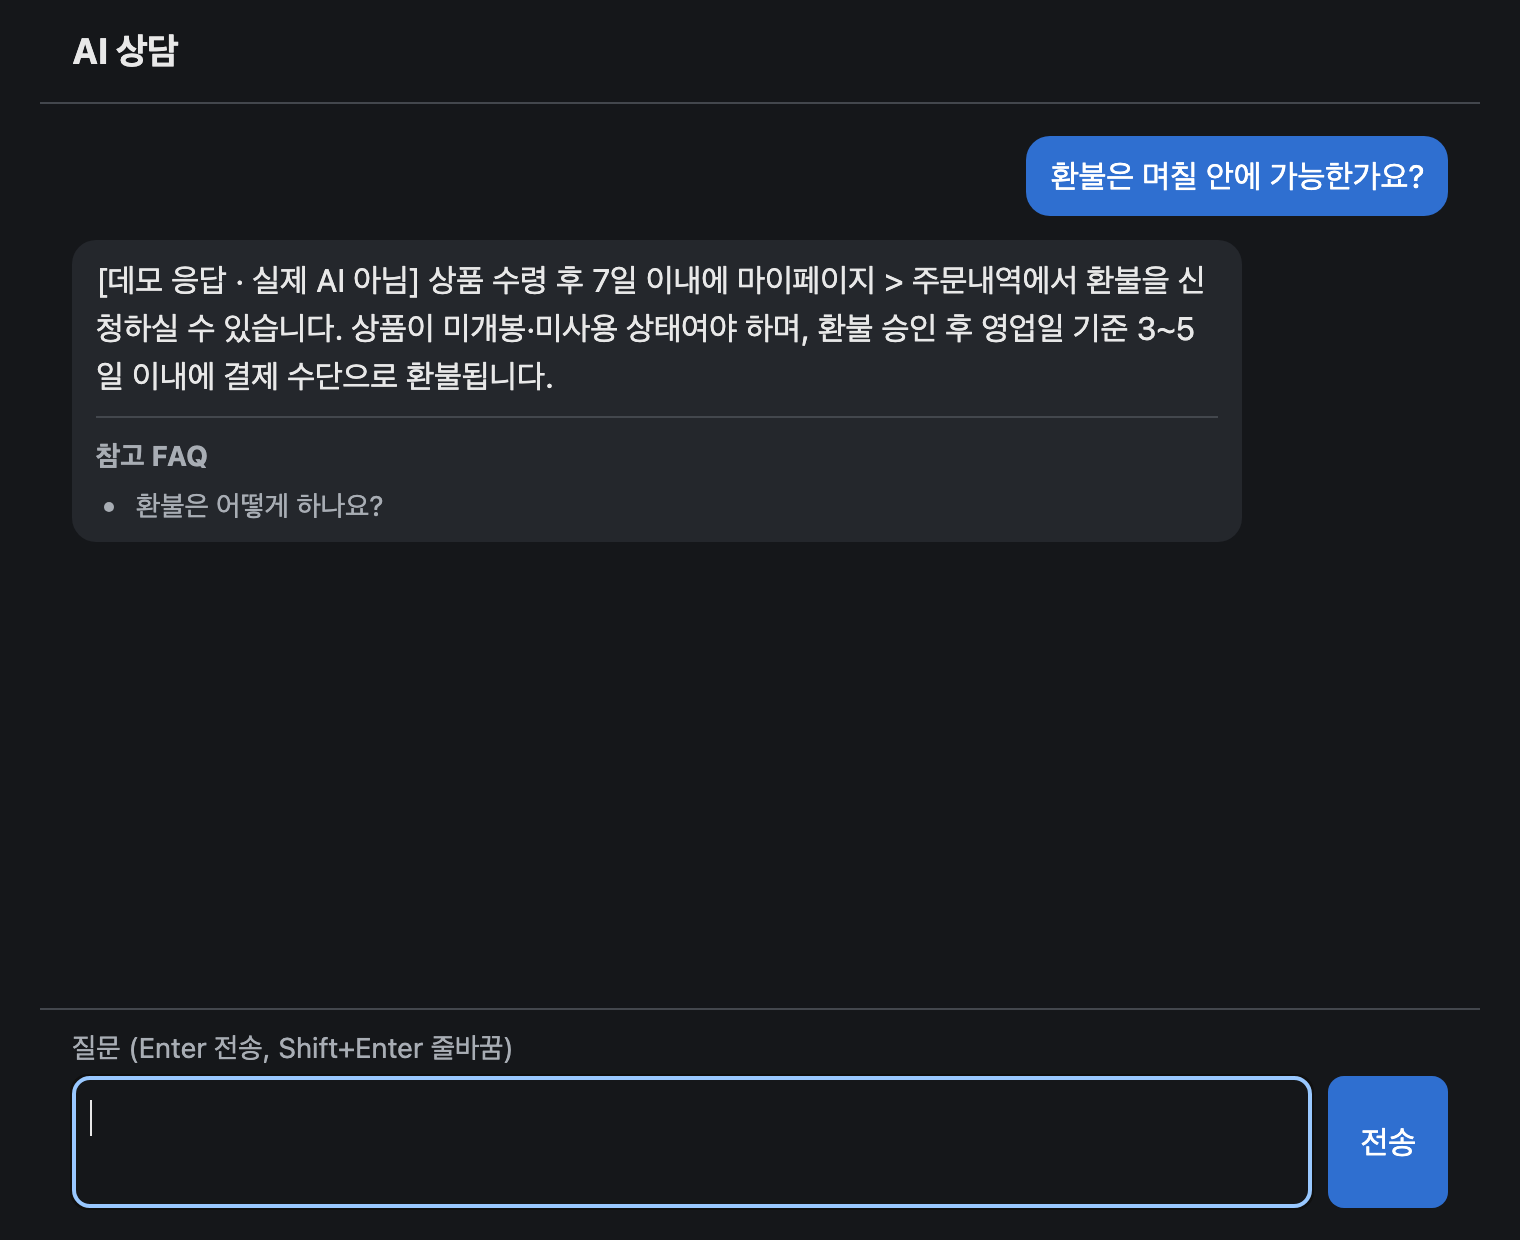
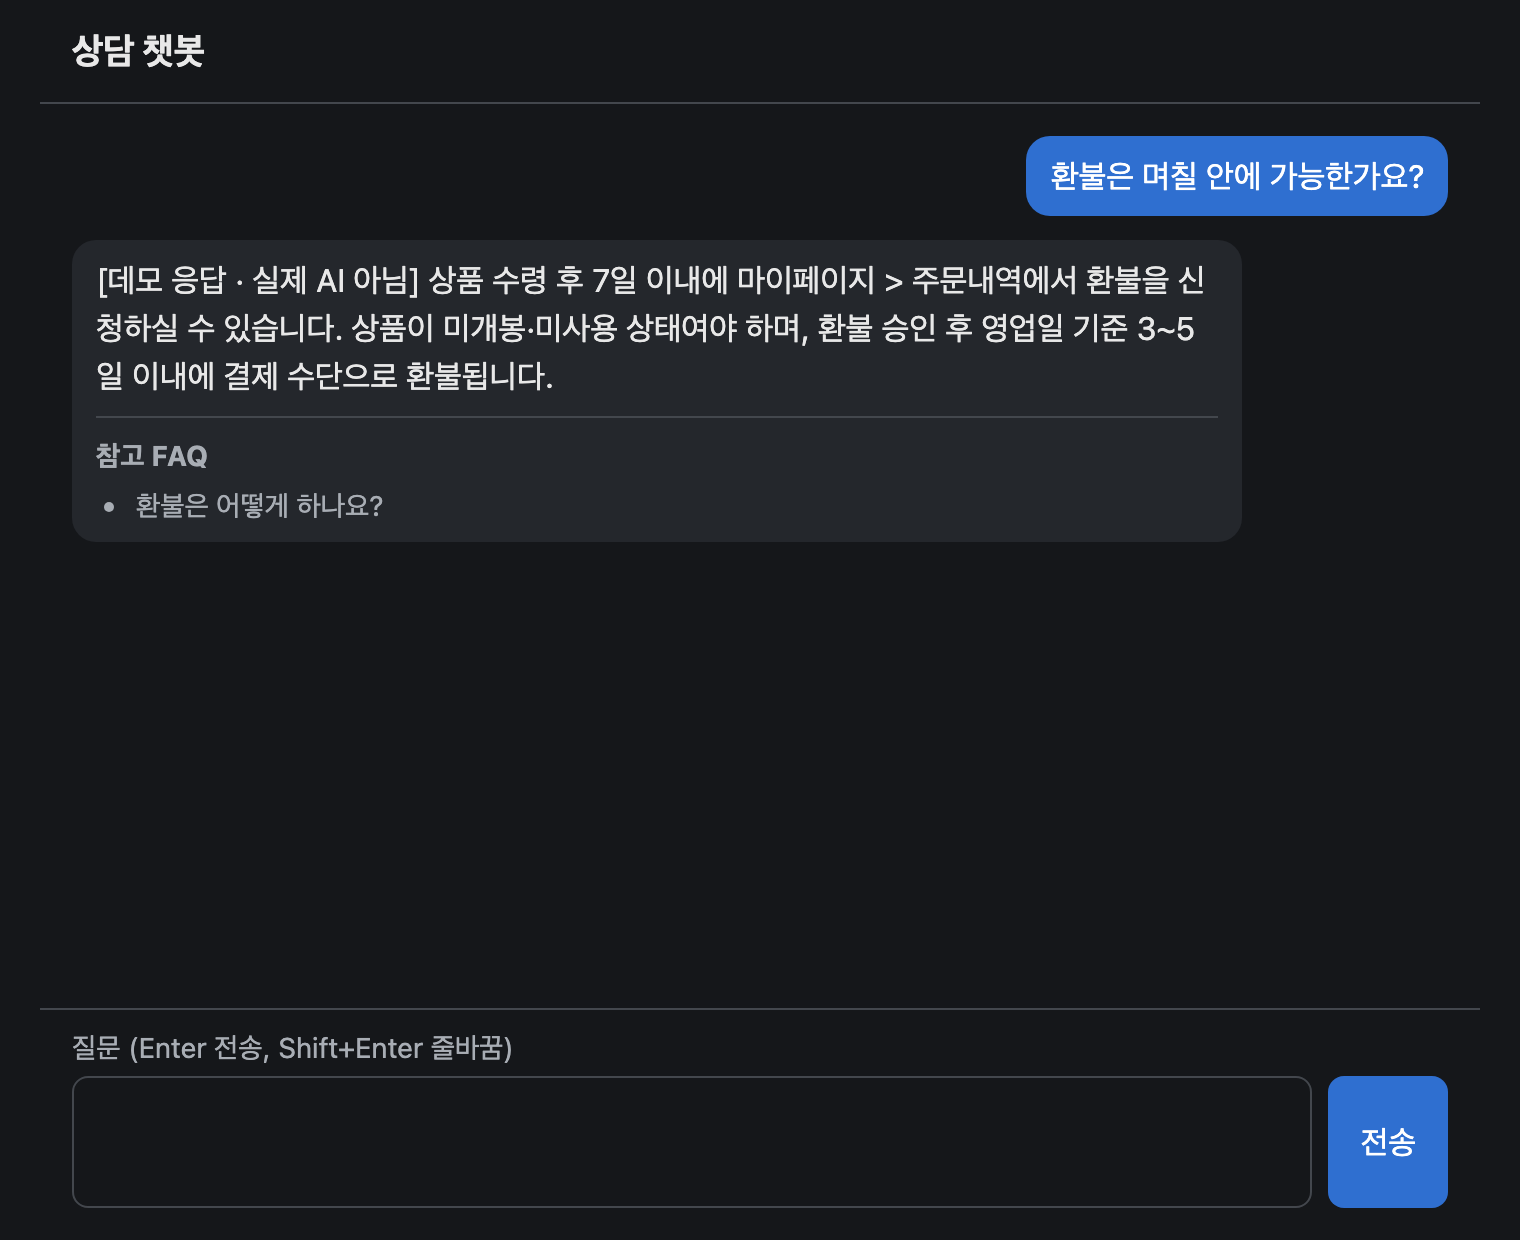
fix: keep demo follow-ups on the current question and tighten retrieval
The rewrite stub returned the whole prompt, so the previous FAQ answer in
the history dominated every later search. It now returns only the current
question.

Demo embedding uses bigrams within words and drops question endings, with
the threshold at 0.18 and a new embedding index name so stored vectors are
rebuilt. Page heading no longer says "AI" in demo mode; screenshot retaken.

diff --git a/src/main/resources/static/index.html b/src/main/resources/static/index.html
@@ -3,7 +3,7 @@
 <head>
 <meta charset="utf-8">
 <meta name="viewport" content="width=device-width, initial-scale=1">
-<title>AI 상담</title>
+<title>상담 챗봇</title>
 <link rel="icon" href="data:,">
 <style>
   :root {
@@ -55,7 +55,7 @@
 </style>
 </head>
 <body>
-<h1>AI 상담</h1>
+<h1>상담 챗봇</h1>
 <div id="log" role="log" aria-live="polite" aria-label="대화 내용" tabindex="0"></div>
 <p id="error" role="alert" hidden></p>
 <form id="form">

diff --git a/src/test/java/com/example/consult/demo/DemoEmbeddingModelTest.java b/src/test/java/com/example/consult/demo/DemoEmbeddingModelTest.java
@@ -33,7 +33,38 @@ class DemoEmbeddingModelTest {
             "파이썬으로 정렬 알고리즘 짜는 법 알려줘",
             "김치찌개 맛있게 끓이는 법이 궁금해요",
             "임진왜란은 몇 년에 일어났나요?",
-            "강아지가 밥을 안 먹어요");
+            "강아지가 밥을 안 먹어요",
+            "안녕하세요",
+            "너는 누구야?",
+            "넌 AI야?",
+            "상담원 연결해 주세요",
+            "영업시간이 어떻게 되나요?",
+            "화성까지 가는 데 얼마나 걸리나요?",
+            "라면은 어떻게 끓이나요?",
+            "이혼은 어떻게 하나요?",
+            "자동차 할부는 얼마인가요?",
+            "서울에서 부산까지 얼마나 걸리나요?",
+            "운전면허는 어떻게 따나요?",
+            "사장님 이름이 뭐예요?",
+            "주식 투자는 어떻게 하나요?",
+            "회사 위치가 어디인가요?",
+            "다이어트는 어떻게 하나요?",
+            "비트코인 얼마인가요?",
+            "제주도 여행은 어떻게 가나요?",
+            "점심 메뉴 추천해 주세요",
+            "오늘 몇 시인가요?",
+            "노래 추천해 줘",
+            "영어 공부는 어떻게 하나요?",
+            "회사 전화번호가 뭐예요?",
+            "아파트 가격은 얼마인가요?",
+            "고마워요");
+
+    // 알려진 오답. 키워드 유사도의 한계라 임계값을 넘어 엉뚱한 FAQ로 답한다. 고치면 README도 함께 고친다.
+    private static final List<String> KNOWN_LEAKS = List.of(
+            "감사합니다",
+            "커피는 얼마나 마셔야 하나요?",
+            "지구에서 달까지 얼마나 걸리나요?",
+            "그 기간이 지나면 어떻게 되나요?");
 
     private static List<FaqEntry> faqs;
     private static double threshold;
@@ -60,8 +91,14 @@ class DemoEmbeddingModelTest {
     }
 
     @Test
-    void whitespaceIsIgnored() {
-        assertThat(model.embed("환불 은 어떻게\n하나요")).isEqualTo(model.embed("환불은어떻게하나요"));
+    void bigramsStayWithinWords() {
+        assertThat(model.embed("환 불")).containsOnly(0f);
+        assertThat(model.embed("환불, 교환\n")).isEqualTo(model.embed("환불 교환"));
+    }
+
+    @Test
+    void questionEndingsAreDropped() {
+        assertThat(model.embed("환불 어떻게 하나요")).isEqualTo(model.embed("환불"));
     }
 
     @Test
@@ -84,6 +121,14 @@ class DemoEmbeddingModelTest {
         for (String question : UNRELATED) {
             float[] q = model.embed(question);
             assertThat(faqs).as(question).allSatisfy(f -> assertThat(score(q, f)).isLessThan(threshold));
+        }
+    }
+
+    @Test
+    void knownLeaksStillPassThreshold() {
+        for (String question : KNOWN_LEAKS) {
+            float[] q = model.embed(question);
+            assertThat(faqs).as(question).anySatisfy(f -> assertThat(score(q, f)).isGreaterThanOrEqualTo(threshold));
         }
     }
 

diff --git a/src/test/java/com/example/consult/DemoModeIT.java b/src/test/java/com/example/consult/DemoModeIT.java
@@ -45,6 +45,8 @@ import tools.jackson.databind.json.JsonMapper;
 class DemoModeIT {
 
     private static final String PREFIX = "[데모 응답 · 실제 AI 아님] ";
+    private static final String NO_MATCH = "등록된 FAQ에서 관련 내용을 찾지 못했습니다. 상담원 연결을 이용해 주세요.";
+    private static final String PASSWORD_ANSWER = "로그인 화면의 '비밀번호 찾기'에서 가입한 이메일을 입력하시면 재설정 링크를 보내드립니다. 링크는 30분간 유효합니다.";
     private static final JsonMapper JSON = JsonMapper.builder().build();
     private static final AtomicInteger EXTERNAL_REQUESTS = new AtomicInteger();
     private static HttpServer stub;
@@ -77,7 +79,7 @@ class DemoModeIT {
 
     @Test
     void contextHasOnlyDemoModelsAndNoKeys() {
-        assertThat(props.embeddingIndex()).isEqualTo("demo-char-bigram");
+        assertThat(props.embeddingIndex()).isEqualTo("demo-word-bigram");
         assertThat(((ConfigurableEnvironment) ctx.getEnvironment()).getPropertySources().stream())
                 .noneMatch(source -> source.getName().contains("application.properties"));
         assertThat(ctx.getBeansOfType(AnthropicChatModel.class)).isEmpty();
@@ -120,16 +122,34 @@ class DemoModeIT {
     }
 
     @Test
-    void followUpUsesHistoryAndEndsWithDone(CapturedOutput output) throws Exception {
+    void followUpOnNewTopicAnswersFromThatTopic(CapturedOutput output) throws Exception {
         UUID id = UUID.randomUUID();
         assertThat(chat(id, "환불은 며칠 안에 가능한가요?")).contains("event:done");
 
-        String sse = chat(id, "그 기간이 지나면 어떻게 되나요?");
+        String sse = chat(id, "비밀번호를 잊어버렸어요");
 
-        assertThat(sse).contains("\"id\":\"refund-policy\"");
+        assertThat(deltaText(sse)).isEqualTo(PREFIX + PASSWORD_ANSWER);
         assertThat(eventNames(sse).getLast()).isEqualTo("event:done");
         assertThat(output).doesNotContain("query rewrite failed");
         assertThat(EXTERNAL_REQUESTS).hasValue(0);
+    }
+
+    @Test
+    void offTopicFollowUpGetsNoMatchGuidance() throws Exception {
+        UUID id = UUID.randomUUID();
+        assertThat(chat(id, "환불은 며칠 안에 가능한가요?")).contains("event:done");
+
+        String sse = chat(id, "오늘 서울 날씨 어때요?");
+
+        assertThat(sse).contains("{\"items\":[]}");
+        assertThat(deltaText(sse)).isEqualTo(PREFIX + NO_MATCH);
+    }
+
+    @Test
+    void answerArrivesInMoreThanOneDelta() throws Exception {
+        String sse = chat(UUID.randomUUID(), "환불은 며칠 안에 가능한가요?");
+
+        assertThat(eventNames(sse).stream().filter("event:delta"::equals).count()).isGreaterThan(1);
     }
 
     private String chat(UUID id, String message) throws Exception {

diff --git a/src/main/java/com/example/consult/demo/DemoChatModel.java b/src/main/java/com/example/consult/demo/DemoChatModel.java
@@ -26,6 +26,7 @@ class DemoChatModel implements ChatModel {
     private static final String NO_FAQ_MARKER = "FAQ 근거 없음";
     private static final String GUIDANCE = "등록된 FAQ에서 관련 내용을 찾지 못했습니다. 상담원 연결을 이용해 주세요.";
     private static final Pattern FIRST_ANSWER = Pattern.compile("^A: (.*)$", Pattern.MULTILINE);
+    private static final Pattern FOLLOW_UP = Pattern.compile("Follow-up query:\\n(.*)\\n\\nStandalone query:", Pattern.DOTALL);
     private static final Pattern CHUNK = Pattern.compile(".{1,3}", Pattern.DOTALL);
     private static final Duration CHUNK_DELAY = Duration.ofMillis(30);
 
@@ -33,11 +34,13 @@ class DemoChatModel implements ChatModel {
         log.info("Demo mode on: answers are FAQ text from a stub, not AI. No external AI API is called.");
     }
 
-    // 후속 질문 재작성 전용. 재작성 없이 프롬프트를 그대로 돌려주므로 대화 이력 전체가 검색어가 되고,
-    // 대화가 길어지면 앞선 주제에 끌려 검색 결과가 틀릴 수 있다. 실제 모델에서는 생기지 않는 한계다.
+    // 재작성 전용. 스텁은 문맥을 모르니 현재 질문만 돌려준다. 이력까지 넘기면 직전 답변의 FAQ 원문이 검색을 지배한다.
     @Override
     public ChatResponse call(Prompt prompt) {
-        return new ChatResponse(List.of(new Generation(new AssistantMessage(prompt.getUserMessage().getText()))));
+        String text = prompt.getUserMessage().getText();
+        var followUp = FOLLOW_UP.matcher(text);
+        String query = followUp.find() ? followUp.group(1) : text;
+        return new ChatResponse(List.of(new Generation(new AssistantMessage(query))));
     }
 
     @Override

diff --git a/src/main/java/com/example/consult/demo/DemoEmbeddingModel.java b/src/main/java/com/example/consult/demo/DemoEmbeddingModel.java
@@ -3,6 +3,8 @@ package com.example.consult.demo;
 import java.nio.charset.StandardCharsets;
 import java.util.ArrayList;
 import java.util.List;
+import java.util.Set;
+import java.util.regex.Pattern;
 import java.util.zip.CRC32;
 import org.springframework.ai.document.Document;
 import org.springframework.ai.embedding.Embedding;
@@ -17,6 +19,11 @@ import org.springframework.stereotype.Component;
 class DemoEmbeddingModel implements EmbeddingModel {
 
     private static final int DIMENSIONS = 1536;
+    private static final Pattern WORD = Pattern.compile("[\\p{L}\\p{N}]+");
+    // 질문 어미가 겹치는 것만으로 무관한 질문이 FAQ에 걸리지 않게 뺀다.
+    private static final Set<String> STOP_WORDS = Set.of(
+            "어떻게", "얼마나", "하나요", "있나요", "되나요", "인가요", "해요", "어때요",
+            "싶어요", "하고", "주세요", "알려주세요", "뭐예요", "뭔가요", "언제", "어디서");
 
     @Override
     public EmbeddingResponse call(EmbeddingRequest request) {
@@ -39,10 +46,14 @@ class DemoEmbeddingModel implements EmbeddingModel {
     }
 
     private static float[] vector(String text) {
-        String s = text.replaceAll("\\s+", "");
         float[] v = new float[DIMENSIONS];
-        for (int i = 0; i + 2 <= s.length(); i++) {
-            v[bucket(s.substring(i, i + 2))]++;
+        var words = WORD.matcher(text);
+        while (words.find()) {
+            String w = words.group();
+            if (STOP_WORDS.contains(w)) continue;
+            for (int i = 0; i + 2 <= w.length(); i++) {
+                v[bucket(w.substring(i, i + 2))]++;
+            }
         }
         double sum = 0;
         for (float x : v) {
